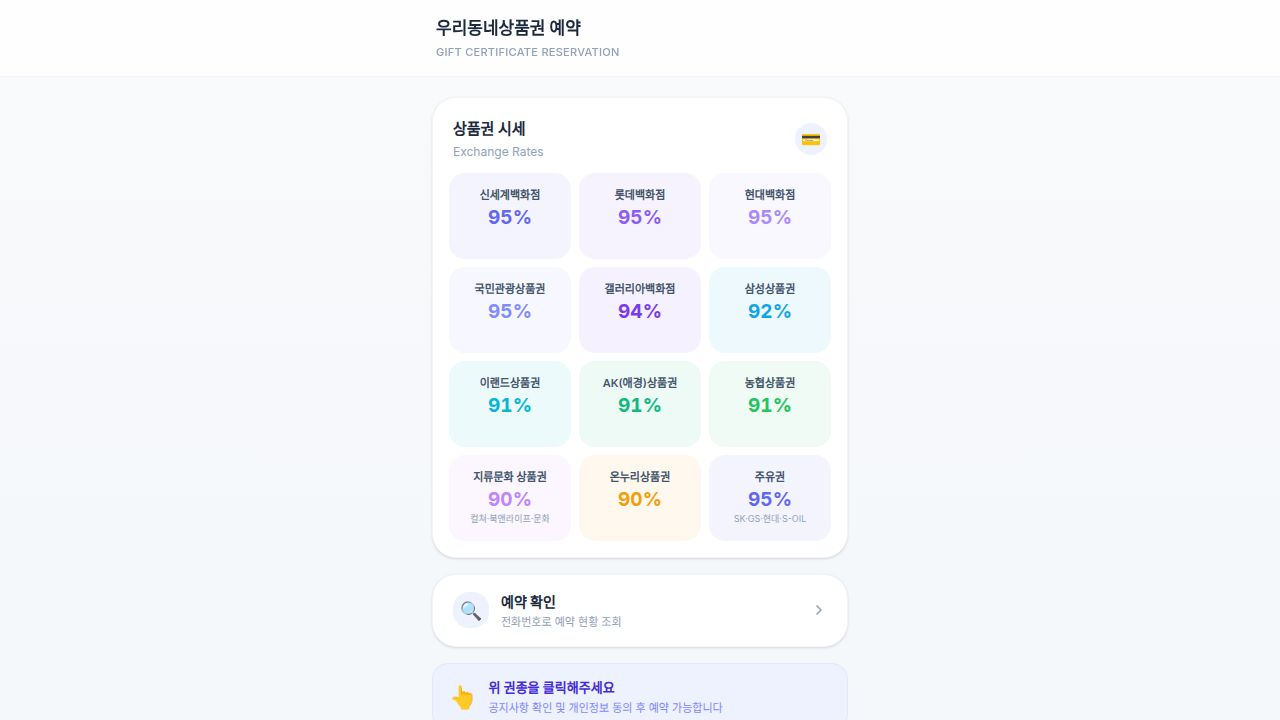
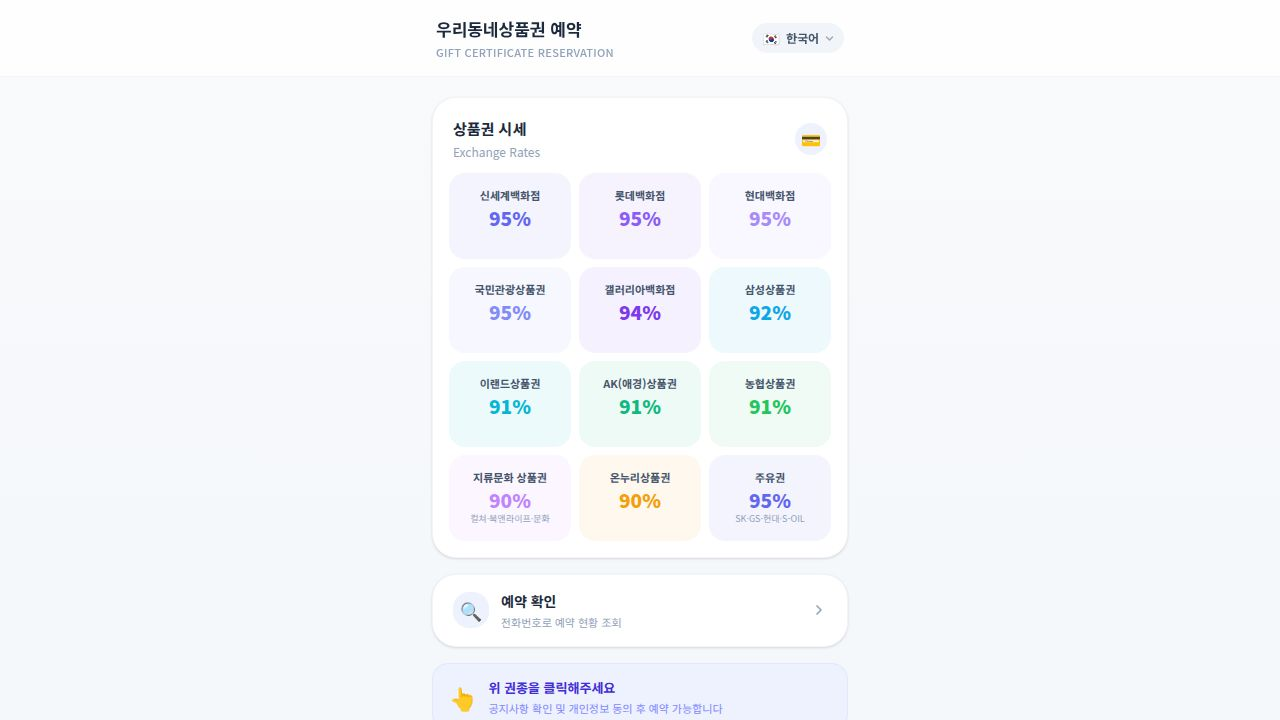
Add multilingual support for reservation check and related actions
Integrate internationalization for reservation check page, including title, status messages, and action buttons, by adding new translations to `uiTranslations.ts` and updating `ReservationCheck.tsx` to use `getLabel` and manage language selection.

Replit-Commit-Author: Agent
Replit-Commit-Session-Id: 660837af-092c-43ec-82f0-427458f7040e
Replit-Commit-Checkpoint-Type: full_checkpoint
Replit-Commit-Event-Id: 7ca4eb85-5093-49d0-af58-1ed6e0c10665
Replit-Commit-Screenshot-Url: https://storage.googleapis.com/screenshot-production-us-central1/4796aadb-0144-48ff-b482-191f10c04f70/660837af-092c-43ec-82f0-427458f7040e/7ZafftV
Replit-Helium-Checkpoint-Created: true

diff --git a/artifacts/gift-cert/src/pages/ReservationCheck.tsx b/artifacts/gift-cert/src/pages/ReservationCheck.tsx
@@ -1,6 +1,8 @@
 import { useState } from "react";
 import { useLocation } from "wouter";
 import { formatPhone, formatDateKo } from "@/lib/store";
+import { LANGUAGES, getSavedLang, saveLang } from "@/lib/languages";
+import { getLabel } from "@/lib/uiTranslations";
 
 interface EditItem { type: string; amount: string; isGift: boolean; }
 
@@ -44,6 +46,8 @@ export default function ReservationCheck() {
   const [reservation, setReservation] = useState<ReservationInfo | null>(null);
   const [staffInfo, setStaffInfo] = useState<StaffInfo | null>(null);
   const [searched, setSearched] = useState(false);
+  const [lang, setLang] = useState(() => getSavedLang());
+  const [langPickerOpen, setLangPickerOpen] = useState(false);
 
   // 취소
   const [cancelling, setCancelling] = useState(false);
@@ -420,7 +424,7 @@ export default function ReservationCheck() {
         onClick={openEdit}
         className="w-full py-3 rounded-xl border border-indigo-200 text-indigo-500 text-[14px] font-semibold hover:bg-indigo-50 transition-colors active:scale-95"
       >
-        ✏ 예약 수정
+        {getLabel("edit_reservation", lang)}
       </button>
     );
   }
@@ -441,17 +445,44 @@ export default function ReservationCheck() {
       )}
 
       <header className="bg-white border-b border-slate-100 shadow-sm sticky top-0 z-40">
-        <div className="max-w-lg mx-auto px-4 py-3.5 flex items-center gap-3">
-          <button onClick={() => { window.location.href = "/"; }} className="w-8 h-8 flex items-center justify-center rounded-xl hover:bg-slate-100 transition-colors">
+        <div className="max-w-lg mx-auto px-4 py-3 flex items-center gap-3">
+          <button onClick={() => { window.location.href = "/"; }} className="w-8 h-8 flex items-center justify-center rounded-xl hover:bg-slate-100 transition-colors flex-shrink-0">
             <svg width="18" height="18" viewBox="0 0 24 24" fill="none" stroke="currentColor" strokeWidth="2.5" strokeLinecap="round" strokeLinejoin="round">
               <path d="M19 12H5M12 19l-7-7 7-7"/>
             </svg>
           </button>
-          <div>
-            <h1 className="text-[16px] font-bold text-slate-800">예약 확인</h1>
+          <div className="flex-1 min-w-0">
+            <h1 className="text-[16px] font-bold text-slate-800">{getLabel("reservation_check", lang)}</h1>
             <p className="text-[11px] text-slate-400 mt-0.5">전화번호로 예약 현황 조회</p>
           </div>
+          <button
+            onClick={() => setLangPickerOpen((v) => !v)}
+            className="flex-shrink-0 flex items-center gap-1.5 px-2.5 py-1.5 rounded-xl bg-slate-100 hover:bg-slate-200 active:scale-95 transition-all text-[12px] font-semibold text-slate-600"
+          >
+            <span className="text-[14px] leading-none">{LANGUAGES.find((l) => l.code === lang)?.flag ?? "🌐"}</span>
+            <span className="hidden sm:inline">{LANGUAGES.find((l) => l.code === lang)?.label}</span>
+            <svg width="9" height="9" viewBox="0 0 12 12" fill="none" className="opacity-50"><path d="M2 4l4 4 4-4" stroke="currentColor" strokeWidth="1.8" strokeLinecap="round"/></svg>
+          </button>
         </div>
+        {langPickerOpen && (
+          <div className="border-t border-slate-100 bg-white px-4 py-2.5">
+            <div className="max-w-lg mx-auto flex flex-col gap-1">
+              {LANGUAGES.map((l) => (
+                <button
+                  key={l.code}
+                  onClick={() => { setLang(l.code); saveLang(l.code); setLangPickerOpen(false); }}
+                  className={`w-full flex items-center gap-2.5 px-3 py-2 rounded-xl text-[13px] font-semibold border transition-all active:scale-[0.98]
+                    ${lang === l.code
+                      ? "bg-indigo-500 text-white border-indigo-500 shadow-sm"
+                      : "bg-white text-slate-600 border-slate-200 hover:border-indigo-300 hover:text-indigo-500"}`}
+                >
+                  <span className="text-[16px] leading-none">{l.flag}</span>
+                  <span>{l.label}</span>
+                </button>
+              ))}
+            </div>
+          </div>
+        )}
       </header>
 
       <div className="max-w-lg mx-auto px-4 py-6 space-y-4">
@@ -473,7 +504,7 @@ export default function ReservationCheck() {
               className="px-5 py-3 rounded-xl text-white text-[14px] font-bold transition-all active:scale-95 disabled:opacity-40 whitespace-nowrap"
               style={{ background: "linear-gradient(135deg,#6366f1,#8b5cf6)" }}
             >
-              {loading ? "조회 중…" : "조회"}
+              {loading ? "조회 중…" : getLabel("search", lang)}
             </button>
           </div>
           {error && <p className="text-[12px] text-rose-500">{error}</p>}
@@ -492,7 +523,7 @@ export default function ReservationCheck() {
         {reservation && reservation.status === "cancelled" && (
           <div className="bg-rose-50 border border-rose-100 rounded-2xl px-5 py-8 text-center space-y-2">
             <div className="w-14 h-14 rounded-full bg-rose-100 flex items-center justify-center text-[28px] mx-auto">❌</div>
-            <p className="text-[16px] font-bold text-rose-700">예약 취소됨</p>
+            <p className="text-[16px] font-bold text-rose-700">{getLabel("status_cancelled", lang)}</p>
             <p className="text-[13px] text-rose-500">해당 예약은 취소되었습니다.</p>
             {reservation.giftcardType && (
               <p className="text-[13px] text-slate-500 pt-2">{reservation.giftcardType} · {fmt(reservation.amount)}</p>
@@ -507,7 +538,7 @@ export default function ReservationCheck() {
         {reservation && reservation.status === "completed" && (
           <div className="bg-slate-50 border border-slate-200 rounded-2xl px-5 py-8 text-center space-y-2">
             <div className="w-14 h-14 rounded-full bg-slate-100 flex items-center justify-center text-[28px] mx-auto">✅</div>
-            <p className="text-[16px] font-bold text-slate-700">처리 완료</p>
+            <p className="text-[16px] font-bold text-slate-700">{getLabel("status_completed", lang)}</p>
             <p className="text-[13px] text-slate-500">거래가 완료된 예약입니다.</p>
           </div>
         )}
@@ -516,7 +547,7 @@ export default function ReservationCheck() {
         {reservation && reservation.status === "no_show" && (
           <div className="bg-red-50 border border-red-200 rounded-2xl px-5 py-8 text-center space-y-2">
             <div className="w-14 h-14 rounded-full bg-red-100 flex items-center justify-center text-[28px] mx-auto">🚫</div>
-            <p className="text-[16px] font-bold text-red-700">노쇼 처리됨</p>
+            <p className="text-[16px] font-bold text-red-700">{getLabel("status_no_show", lang)}</p>
             <p className="text-[13px] text-red-500">해당 예약은 노쇼 처리되었습니다.</p>
           </div>
         )}
@@ -527,7 +558,7 @@ export default function ReservationCheck() {
             <div className="bg-white rounded-3xl border border-slate-100 shadow-sm overflow-hidden">
               <div className="px-5 pt-5 pb-4 border-b border-slate-50 flex items-center gap-2">
                 <span className="text-[20px]">📌</span>
-                <p className="text-[17px] font-bold text-slate-800">예약확인</p>
+                <p className="text-[17px] font-bold text-slate-800">{getLabel("reservation_card_title", lang)}</p>
               </div>
               <div className="px-5 py-2 space-y-0">
                 {(reservation.items && reservation.items.length > 0)
@@ -614,7 +645,7 @@ export default function ReservationCheck() {
                       disabled={cancelling}
                       className="w-full py-3 rounded-xl border border-rose-200 text-rose-500 text-[14px] font-semibold hover:bg-rose-50 transition-colors active:scale-95 disabled:opacity-40"
                     >
-                      {cancelling ? "취소 처리 중…" : "예약 취소"}
+                      {cancelling ? "취소 처리 중…" : getLabel("cancel_reservation", lang)}
                     </button>
                   </>
               }
@@ -631,7 +662,7 @@ export default function ReservationCheck() {
             <div className="bg-emerald-50 border border-emerald-100 rounded-2xl px-5 py-4 flex items-center gap-3">
               <div className="w-10 h-10 rounded-full bg-emerald-100 flex items-center justify-center text-[20px] flex-shrink-0">✅</div>
               <div>
-                <p className="text-[15px] font-bold text-emerald-800">예약 확정</p>
+                <p className="text-[15px] font-bold text-emerald-800">{getLabel("reservation_confirmed", lang)}</p>
                 <p className="text-[12px] text-emerald-600 mt-0.5">매입담당자가 배정되었습니다.</p>
               </div>
             </div>
@@ -690,7 +721,7 @@ export default function ReservationCheck() {
                   className="flex items-center justify-center gap-2 w-full py-3.5 rounded-xl text-white text-[14px] font-bold transition-all active:scale-95"
                   style={{ background: "linear-gradient(135deg,#6366f1,#8b5cf6)" }}
                 >
-                  💬 상담하기
+                  {getLabel("consult", lang)}
                 </a>
               </div>
             )}
@@ -706,7 +737,7 @@ export default function ReservationCheck() {
                       disabled={cancelling}
                       className="w-full py-3 rounded-xl border border-rose-200 text-rose-500 text-[14px] font-semibold hover:bg-rose-50 transition-colors active:scale-95 disabled:opacity-40"
                     >
-                      {cancelling ? "취소 처리 중…" : "예약 취소"}
+                      {cancelling ? "취소 처리 중…" : getLabel("cancel_reservation", lang)}
                     </button>
                   </>
               }

diff --git a/artifacts/gift-cert/src/lib/uiTranslations.ts b/artifacts/gift-cert/src/lib/uiTranslations.ts
@@ -1,4 +1,114 @@
 export const UI_TRANSLATIONS: Record<string, Record<string, string>> = {
+  reservation_check: {
+    en: "Reservation Check",
+    "zh-CN": "预约查询",
+    "zh-TW": "預約查詢",
+    vi: "Kiểm tra đặt lịch",
+    ja: "予約確認",
+    th: "ตรวจสอบการจอง",
+    ru: "Проверка бронирования",
+    mn: "Захиалга шалгах",
+    id: "Cek Reservasi",
+  },
+  search: {
+    en: "Search",
+    "zh-CN": "查询",
+    "zh-TW": "查詢",
+    vi: "Tìm kiếm",
+    ja: "検索",
+    th: "ค้นหา",
+    ru: "Поиск",
+    mn: "Хайх",
+    id: "Cari",
+  },
+  reservation_confirmed: {
+    en: "Reservation Confirmed",
+    "zh-CN": "预约确认",
+    "zh-TW": "預約確認",
+    vi: "Xác nhận đặt lịch",
+    ja: "予約確定",
+    th: "ยืนยันการจอง",
+    ru: "Бронирование подтверждено",
+    mn: "Захиалга баталгаажсан",
+    id: "Reservasi Dikonfirmasi",
+  },
+  reservation_card_title: {
+    en: "Reservation Info",
+    "zh-CN": "预约确认",
+    "zh-TW": "預約確認",
+    vi: "Thông tin đặt lịch",
+    ja: "予約情報",
+    th: "ข้อมูลการจอง",
+    ru: "Данные бронирования",
+    mn: "Захиалгын мэдээлэл",
+    id: "Info Reservasi",
+  },
+  status_cancelled: {
+    en: "Reservation Cancelled",
+    "zh-CN": "预约已取消",
+    "zh-TW": "預約已取消",
+    vi: "Đặt lịch đã hủy",
+    ja: "予約取消済み",
+    th: "ยกเลิกการจองแล้ว",
+    ru: "Бронирование отменено",
+    mn: "Захиалга цуцлагдсан",
+    id: "Reservasi Dibatalkan",
+  },
+  status_completed: {
+    en: "Processing Complete",
+    "zh-CN": "处理完成",
+    "zh-TW": "處理完成",
+    vi: "Xử lý hoàn tất",
+    ja: "処理完了",
+    th: "ดำเนินการเสร็จสิ้น",
+    ru: "Обработка завершена",
+    mn: "Боловсруулалт дууссан",
+    id: "Proses Selesai",
+  },
+  status_no_show: {
+    en: "No-Show",
+    "zh-CN": "未到场",
+    "zh-TW": "未到場",
+    vi: "Vắng mặt",
+    ja: "ノーショー",
+    th: "ไม่มาตามนัด",
+    ru: "Неявка",
+    mn: "Ирээгүй",
+    id: "Tidak Hadir",
+  },
+  cancel_reservation: {
+    en: "Cancel Reservation",
+    "zh-CN": "取消预约",
+    "zh-TW": "取消預約",
+    vi: "Hủy đặt lịch",
+    ja: "予約をキャンセル",
+    th: "ยกเลิกการจอง",
+    ru: "Отменить бронирование",
+    mn: "Захиалга цуцлах",
+    id: "Batalkan Reservasi",
+  },
+  edit_reservation: {
+    en: "Edit Reservation",
+    "zh-CN": "修改预约",
+    "zh-TW": "修改預約",
+    vi: "Sửa đặt lịch",
+    ja: "予約を変更",
+    th: "แก้ไขการจอง",
+    ru: "Изменить бронирование",
+    mn: "Захиалга засах",
+    id: "Edit Reservasi",
+  },
+  consult: {
+    en: "Chat Support",
+    "zh-CN": "在线咨询",
+    "zh-TW": "線上諮詢",
+    vi: "Tư vấn trực tuyến",
+    ja: "相談する",
+    th: "ปรึกษา",
+    ru: "Чат поддержки",
+    mn: "Зөвлөгөө авах",
+    id: "Konsultasi",
+  },
   reservation_request: {
     en: "Booking Request",
     "zh-CN": "预约申请",
@@ -62,6 +172,16 @@ export const KOREAN_LABELS: Record<string, string> = {
   urgent_sell_request: "긴급 판매 신청",
   reservation_submit: "예약 신청하기",
   urgent_sell_submit: "긴급 판매 신청하기",
+  reservation_check: "예약 확인",
+  search: "조회",
+  reservation_confirmed: "예약 확정",
+  reservation_card_title: "예약확인",
+  status_cancelled: "예약 취소됨",
+  status_completed: "처리 완료",
+  status_no_show: "노쇼 처리됨",
+  cancel_reservation: "예약 취소",
+  edit_reservation: "✏ 예약 수정",
+  consult: "💬 상담하기",
 };
 
 export function getLabel(key: string, lang: string): string {
